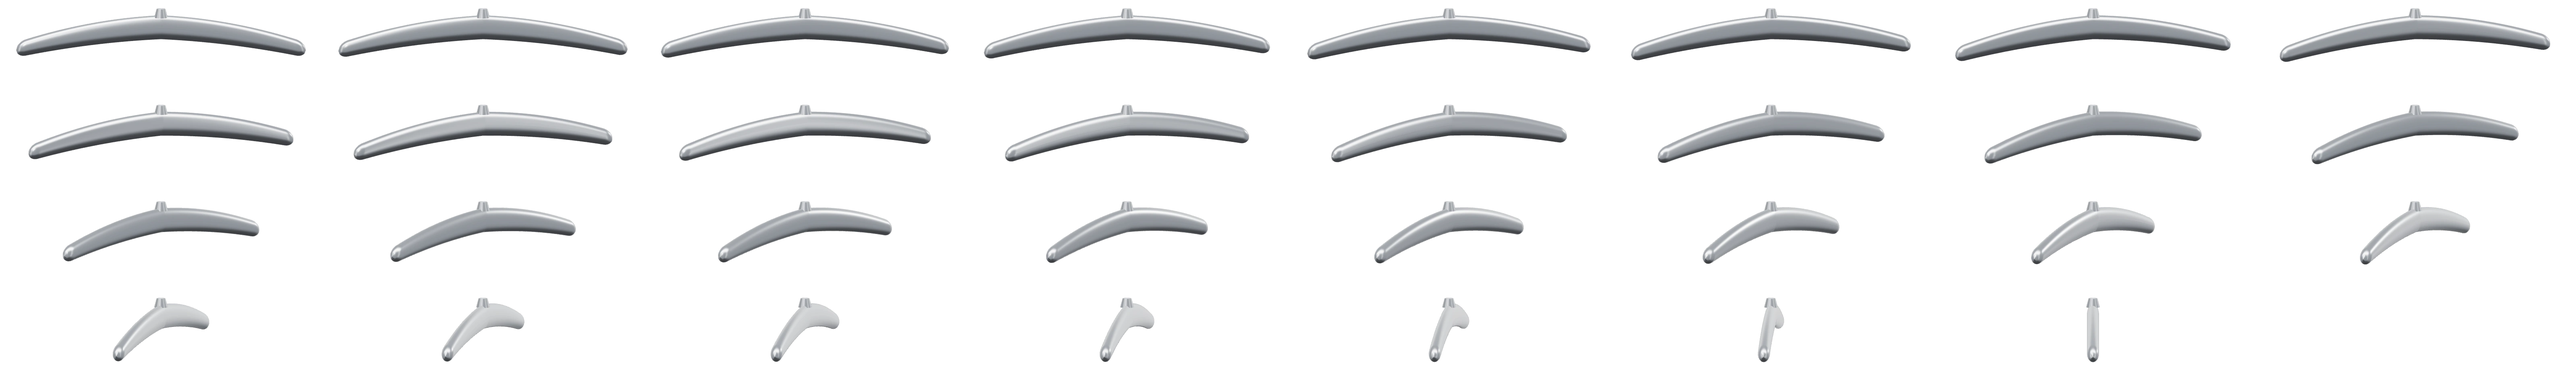
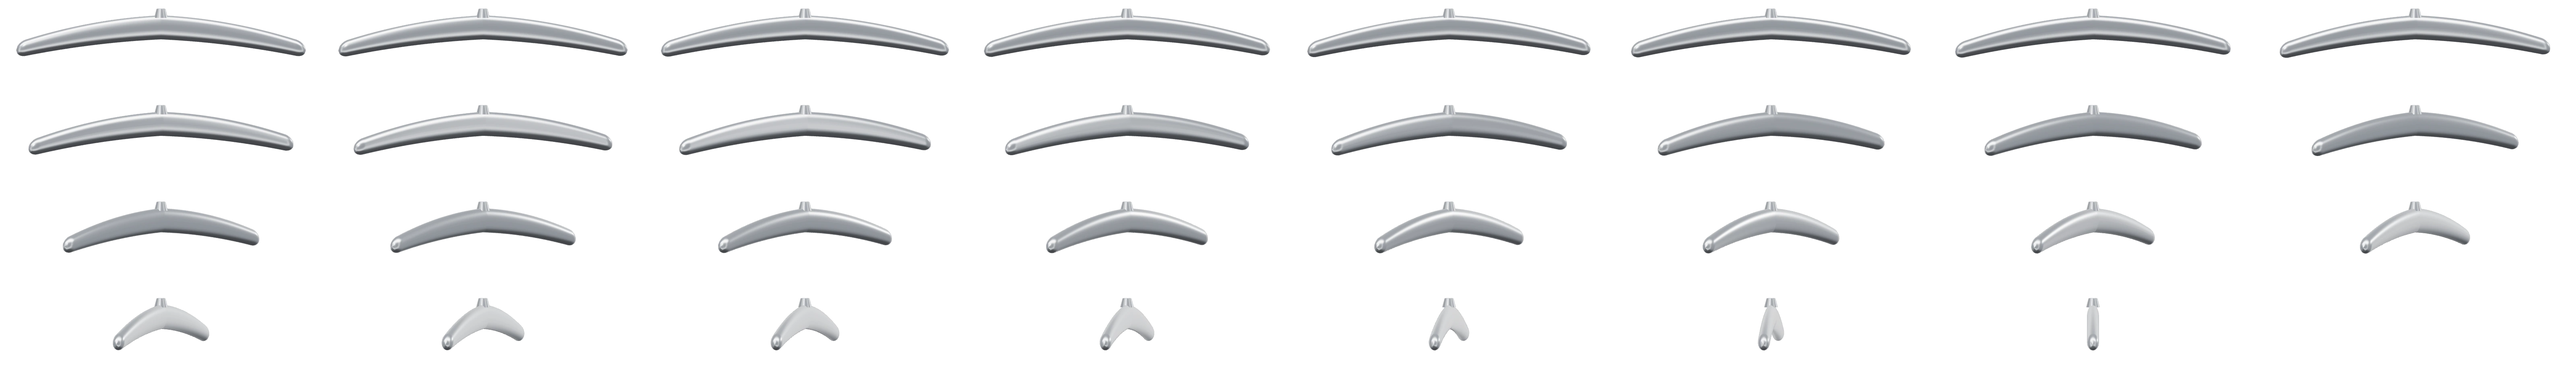
Hanger openings follow the hood flaps and collar ribs
- Hoodies: the hanger now disappears behind the hood's front flaps along
  their real edges instead of being cut off by straight lines inside the hood.
- Crew necks: the hanger sits under the back collar rib, so it reads as being
  inside the collar rather than a flat plate on top of it.
- Metal inside a collar or hood is shaded to the fabric; camera lowered so the
  hanger's top face no longer shows as a bright strip.

Claude-Session: https://claude.ai/code/session_01Usxit6i7S441gedKR29rPZ

diff --git a/src/app.js b/src/app.js
@@ -95,8 +95,18 @@ function drawHanger(ctx,s,exact,f,oy,front){
   if(front){ctx.save();ctx.beginPath();h.opening.forEach(([x,y],i)=>{i?ctx.lineTo(x*f,y*f+oy):ctx.moveTo(x*f,y*f+oy);});ctx.closePath();ctx.clip();}
   const pos=Math.max(0,Math.min(1,angle/maxDegrees))*(steps-1),i=Math.floor(pos),j=Math.min(steps-1,i+1),t=pos-i;
   const src=n=>[(n%columns)*cw,Math.floor(n/columns)*ch,cw,ch];
-  ctx.globalAlpha=alpha;ctx.drawImage(hanger.image,...src(i),dx,dy,cw*k,ch*k);
-  if(t>.02&&j!==i){ctx.globalAlpha=alpha*t;ctx.drawImage(hanger.image,...src(j),dx,dy,cw*k,ch*k);}
+  if(front&&h.shade>0){
+    /* Inside a collar or hood the metal sits in the fabric's shade: darken it on a scratch canvas. */
+    const sc=hanger.scratch||(hanger.scratch=document.createElement('canvas')),w=Math.ceil(cw*k),hh=Math.ceil(ch*k);
+    if(sc.width<w||sc.height<hh){sc.width=Math.max(sc.width,w);sc.height=Math.max(sc.height,hh);}
+    const x=sc.getContext('2d');x.globalCompositeOperation='source-over';x.globalAlpha=1;x.clearRect(0,0,w,hh);
+    x.drawImage(hanger.image,...src(i),0,0,w,hh);if(t>.02&&j!==i){x.globalAlpha=t;x.drawImage(hanger.image,...src(j),0,0,w,hh);x.globalAlpha=1;}
+    x.globalCompositeOperation='source-atop';x.fillStyle=`rgba(${h.shadeColor||'20,20,24'},${h.shade})`;x.fillRect(0,0,w,hh);x.globalCompositeOperation='source-over';
+    ctx.globalAlpha=alpha;ctx.drawImage(sc,0,0,w,hh,dx,dy,w,hh);
+  }else{
+    ctx.globalAlpha=alpha;ctx.drawImage(hanger.image,...src(i),dx,dy,cw*k,ch*k);
+    if(t>.02&&j!==i){ctx.globalAlpha=alpha*t;ctx.drawImage(hanger.image,...src(j),dx,dy,cw*k,ch*k);}
+  }
   if(front)ctx.restore();
   ctx.globalAlpha=1;
 }
